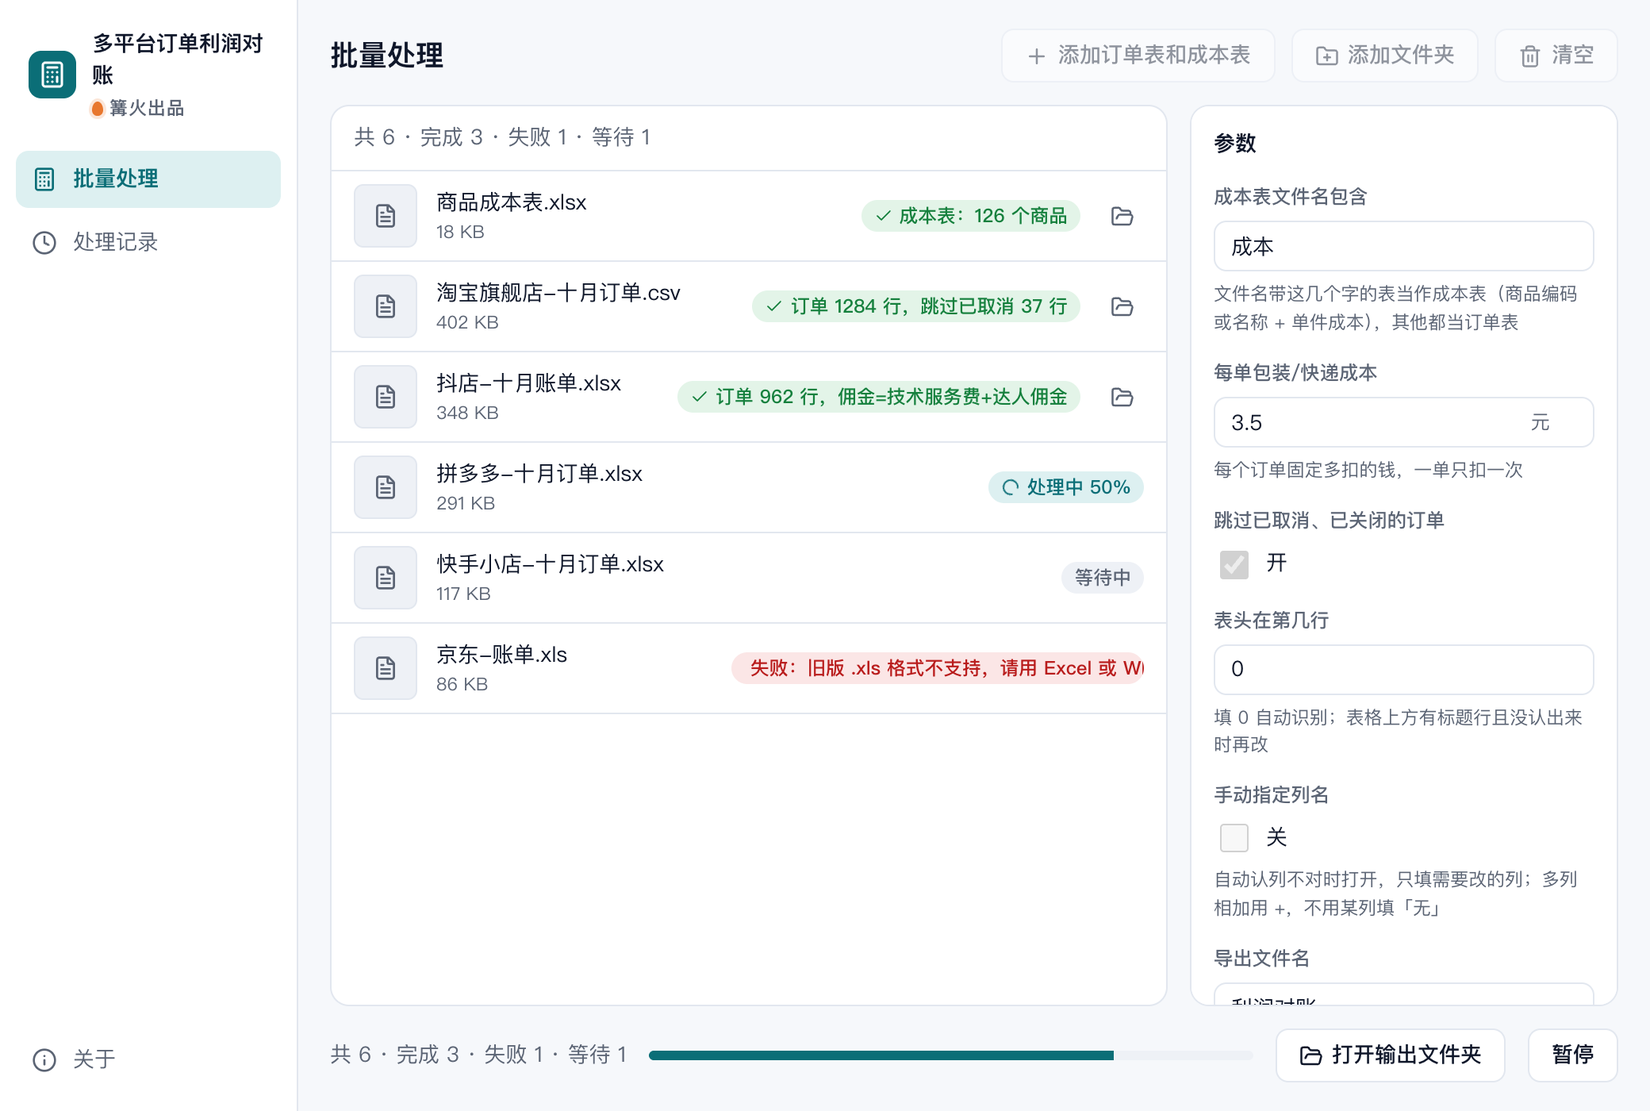
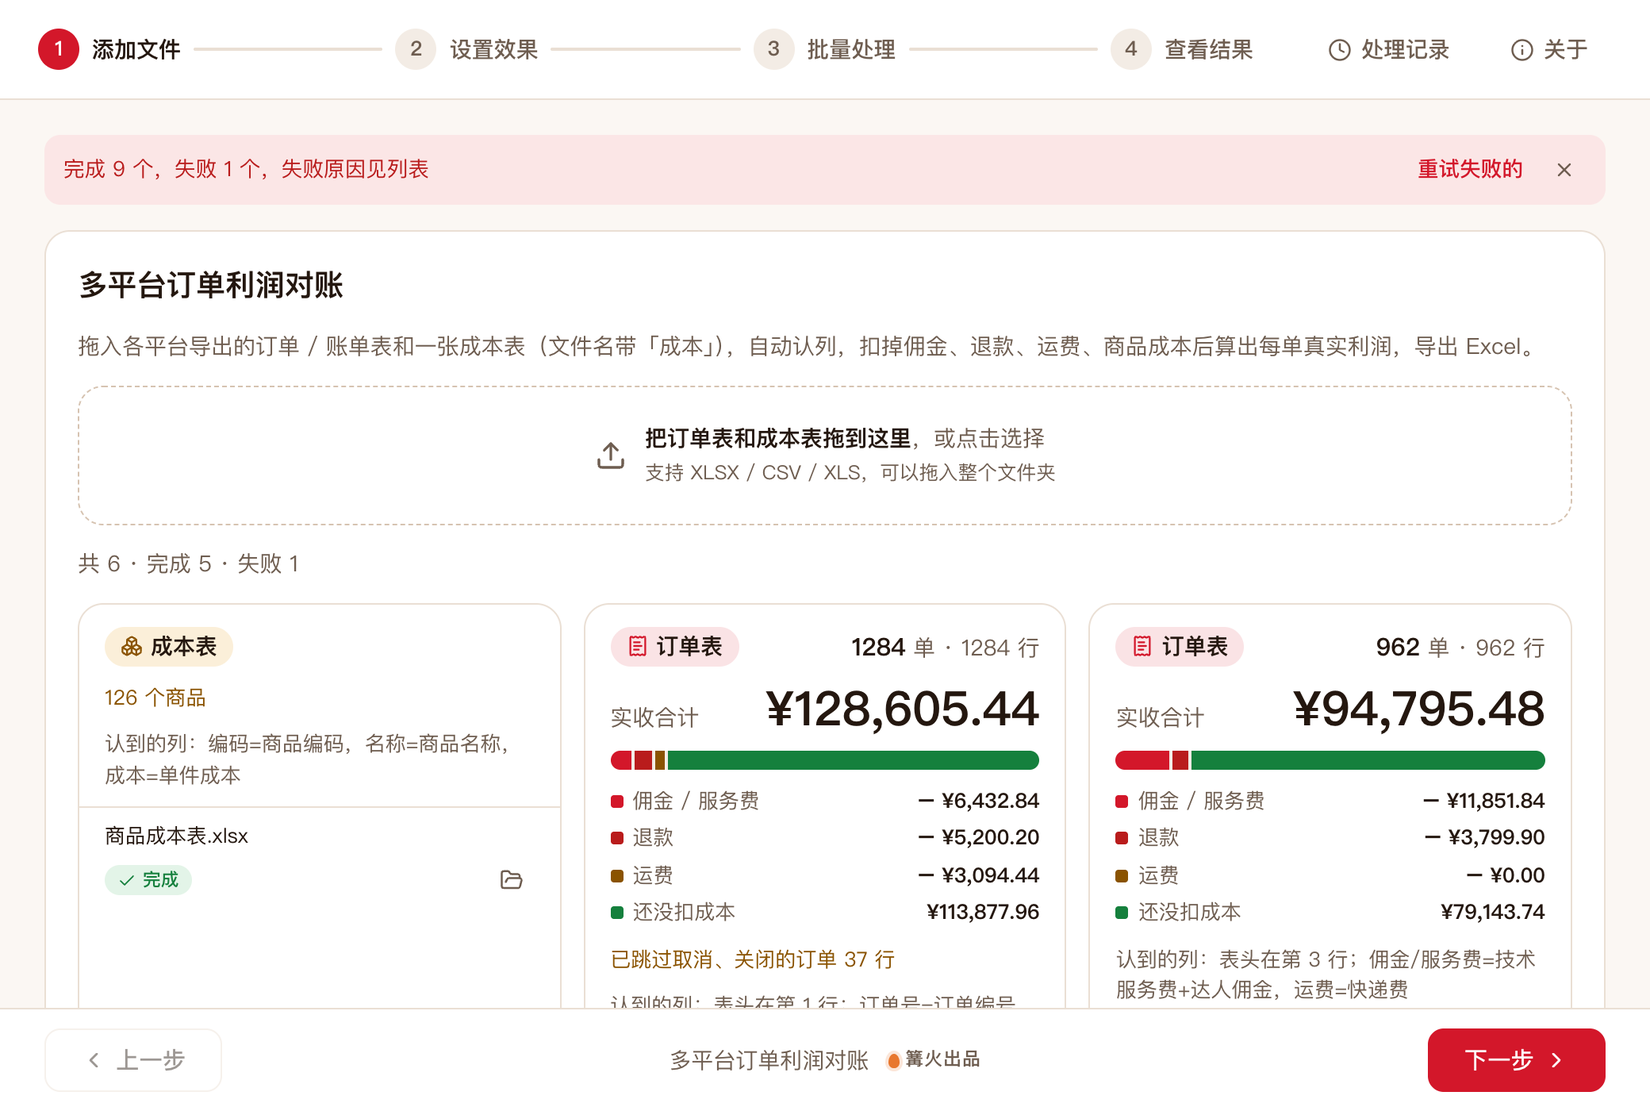
0.2.0 界面改版：实收大字加扣款分段条，中文空状态

diff --git a/src/tool/tool.css b/src/tool/tool.css
@@ -1,0 +1,65 @@
+/* 多平台订单利润对账：布局 c（向导步骤 + 大卡片）。只用 kit.css 的变量，类名以 pr- 开头。
+   焦点：每个订单表的实收大字，加一根「佣金、退款、运费」分段条。 */
+
+/* ---- 空状态 ---- */
+.pr-empty { display: flex; flex-direction: column; align-items: center; gap: 10px; padding: 8px 4px 4px; text-align: center; }
+.pr-empty > svg { width: 100%; max-width: 680px; height: auto; }
+.pr-card { fill: var(--surface); stroke: var(--line-strong); stroke-width: 1.4; }
+.pr-card.hot { stroke: var(--primary); }
+.pr-bar { fill: var(--primary); }
+.pr-top { fill: var(--primary-soft); }
+.pr-tt { font-size: 11.5px; font-weight: 700; fill: var(--ink); font-family: var(--font); }
+.pr-k { font-size: 10px; fill: var(--muted); font-family: var(--font); }
+.pr-arrow { fill: none; stroke: var(--primary); stroke-width: 2.4; stroke-linecap: round; stroke-linejoin: round; }
+.pr-step { fill: var(--primary-soft); stroke: var(--primary); stroke-width: 1.4; stroke-dasharray: 4 3; }
+.pr-fk { font-size: 12px; fill: var(--ink); font-family: var(--font); }
+.pr-fk.strong { font-weight: 700; font-size: 13px; }
+.pr-fv { font-size: 12px; fill: var(--ink); font-family: var(--font); font-variant-numeric: tabular-nums; font-weight: 600; }
+.pr-fv.neg { fill: var(--muted); font-weight: 400; }
+.pr-sum { stroke: var(--ink); stroke-width: 1.2; }
+.pr-big { font-size: 28px; font-weight: 800; fill: var(--ink); font-family: var(--font); font-variant-numeric: tabular-nums; }
+.pr-pct { font-size: 11px; font-weight: 700; fill: var(--ok); font-family: var(--font); }
+.pr-ct { font-size: 10.5px; fill: var(--ink); font-family: var(--font); font-variant-numeric: tabular-nums; }
+.pr-track { fill: var(--chip); }
+.pr-fill { fill: var(--primary); }
+.pr-warn { fill: var(--warn-soft); }
+.pr-wt { font-size: 10px; fill: var(--warn); font-family: var(--font); font-weight: 600; }
+.pr-cap { font-size: 11.5px; fill: var(--muted); font-family: var(--font); }
+.pr-title { font-size: 1.3em; font-weight: 700; color: var(--ink); margin-top: 4px; }
+.pr-act { display: inline-flex; align-items: center; gap: 6px; padding: 6px 14px; border-radius: 999px; background: var(--primary-soft); color: var(--ink); font-weight: 600; text-align: left; line-height: 1.4; }
+.pr-act svg { flex: none; color: var(--primary); }
+
+/* ---- 结果卡片 ---- */
+.c-card .k-cards { grid-template-columns: repeat(auto-fill, minmax(300px, 1fr)); gap: 14px; }
+.c-card .k-card-body { padding: 14px 16px 10px; }
+.c-card .k-card-meta { border-top: 1px solid var(--line); padding: 8px 16px 10px; }
+.pr-sub { color: var(--muted); }
+.pr-body { display: grid; gap: 10px; }
+.pr-head { display: flex; align-items: center; gap: 8px; flex-wrap: wrap; }
+.pr-tag { display: inline-flex; align-items: center; gap: 5px; padding: 2px 10px; border-radius: 999px; font-weight: 700; background: var(--primary-soft); color: var(--ink); }
+.pr-tag svg { color: var(--primary); }
+.pr-tag.cost { background: var(--warn-soft); }
+.pr-tag.cost svg { color: var(--warn); }
+.pr-count { margin-left: auto; color: var(--muted); white-space: nowrap; }
+.pr-count b { color: var(--ink); font-size: 1.1em; }
+.pr-income { display: flex; align-items: baseline; justify-content: space-between; gap: 10px; }
+.pr-income span { color: var(--muted); white-space: nowrap; }
+.pr-income b { font-size: 30px; line-height: 1.1; color: var(--ink); font-weight: 800; }
+.pr-split { display: flex; height: 12px; border-radius: 6px; overflow: hidden; gap: 2px; background: var(--chip); }
+.pr-split i { display: block; min-width: 4px; transition: flex 200ms var(--ease); }
+.pr-split .c1 { background: var(--primary); }
+.pr-split .c2 { background: var(--err); }
+.pr-split .c3 { background: var(--warn); }
+.pr-split .rest { background: var(--ok); }
+.pr-legend { list-style: none; margin: 0; padding: 0; display: grid; gap: 4px; }
+.pr-legend li { display: flex; justify-content: space-between; gap: 10px; padding-left: 14px; position: relative; font-size: 13px; }
+.pr-legend li::before { content: ''; position: absolute; left: 0; top: 50%; width: 8px; height: 8px; margin-top: -4px; border-radius: 2px; background: var(--line-strong); }
+.pr-legend .c1::before { background: var(--primary); }
+.pr-legend .c2::before { background: var(--err); }
+.pr-legend .c3::before { background: var(--warn); }
+.pr-legend .rest::before { background: var(--ok); }
+.pr-legend span { color: var(--muted); }
+.pr-legend b { color: var(--ink); font-weight: 600; }
+.pr-legend .rest b { font-weight: 800; }
+.pr-note { color: var(--warn); font-size: 13px; }
+.pr-how { color: var(--muted); font-size: 13px; overflow: hidden; display: -webkit-box; -webkit-line-clamp: 2; -webkit-box-orient: vertical; }

diff --git a/src/tool/Empty.tsx b/src/tool/Empty.tsx
@@ -1,0 +1,64 @@
+// 空状态：画出「多个平台的订单表 + 一张成本表 → 扣佣金、退款、运费、成本 → 利润对账表」，数字是真实感的示例
+import { Upload } from 'lucide-react';
+import './tool.css';
+
+const ORDERS = ['淘宝旗舰店订单', '抖店十月账单', '拼多多十月订单'];
+const LINES: [string, string, boolean][] = [['实收', '+ ¥12,860', false], ['佣金', '− ¥643', true], ['退款', '− ¥520', true], ['运费', '− ¥310', true], ['商品成本', '− ¥6,240', true]];
+
+export function Empty({ hover }: { hover: boolean }) {
+  return (
+    <div className="pr-empty">
+      <svg viewBox="0 0 580 240" role="img" aria-label="各平台订单表和成本表一起导入，每单扣掉佣金、退款、运费和商品成本，得到一张利润对账表">
+        <g>
+          {ORDERS.map((t, i) => (
+            <g key={t}>
+              <rect x="6" y={8 + i * 46} width="132" height="38" rx="6" className="pr-card" />
+              <rect x="6" y={8 + i * 46} width="6" height="38" rx="3" className="pr-bar" />
+              <text x="22" y={25 + i * 46} className="pr-tt">{t}</text>
+              <text x="22" y={39 + i * 46} className="pr-k">订单 / 账单表</text>
+            </g>
+          ))}
+          <rect x="6" y="150" width="132" height="42" rx="6" className="pr-card hot" />
+          <text x="22" y="168" className="pr-tt">商品成本表</text>
+          <text x="22" y="183" className="pr-k">商品编码 + 单件成本</text>
+        </g>
+        <path d="M144 100 H166 M144 171 H156 V130 H166 M160 122 L170 130 L160 138" className="pr-arrow" />
+        <g>
+          <rect x="172" y="30" width="140" height="150" rx="8" className="pr-step" />
+          {LINES.map(([k, v, neg], i) => (
+            <g key={k}>
+              <text x="184" y={56 + i * 21} className="pr-fk">{k}</text>
+              <text x="300" y={56 + i * 21} textAnchor="end" className={neg ? 'pr-fv neg' : 'pr-fv'}>{v}</text>
+            </g>
+          ))}
+          <line x1="184" x2="300" y1="158" y2="158" className="pr-sum" />
+          <text x="184" y="173" className="pr-fk strong">每单利润</text>
+        </g>
+        <path d="M318 105 H346 M338 97 L348 105 L338 113" className="pr-arrow" />
+        <g>
+          <rect x="354" y="8" width="220" height="184" rx="6" className="pr-card hot" />
+          <rect x="354" y="8" width="220" height="24" rx="6" className="pr-top" />
+          <text x="366" y="24" className="pr-tt">利润对账.xlsx</text>
+          <text x="366" y="50" className="pr-k">利润合计</text>
+          <text x="366" y="82" className="pr-big">¥4,147</text>
+          <text x="566" y="82" textAnchor="end" className="pr-pct">利润率 32.3%</text>
+          {[['淘宝旗舰店', 1860, 100], ['抖店', 1412, 76], ['拼多多', 875, 47]].map(([k, v, w], i) => (
+            <g key={k as string}>
+              <text x="366" y={112 + i * 22} className="pr-ct">{k}</text>
+              <rect x="428" y={104 + i * 22} width="96" height="8" rx="4" className="pr-track" />
+              <rect x="428" y={104 + i * 22} width={(Number(w) / 100) * 96} height="8" rx="4" className="pr-fill" />
+              <text x="566" y={112 + i * 22} textAnchor="end" className="pr-ct">¥{Number(v).toLocaleString()}</text>
+            </g>
+          ))}
+          <rect x="366" y="170" width="196" height="16" rx="8" className="pr-warn" />
+          <text x="464" y="182" textAnchor="middle" className="pr-wt">3 单缺成本，已在明细里标出</text>
+        </g>
+        <text x="72" y="218" textAnchor="middle" className="pr-cap">一起拖进来</text>
+        <text x="242" y="218" textAnchor="middle" className="pr-cap">按公式逐单算</text>
+        <text x="464" y="218" textAnchor="middle" className="pr-cap">总计、明细、按商品、按来源</text>
+      </svg>
+      <h2 className="pr-title">{hover ? '松开鼠标，开始添加' : '把订单表和成本表一起拖进来'}</h2>
+      <p className="pr-act"><Upload size={15} />成本表的文件名里要带「成本」两个字，其余文件都当订单表</p>
+    </div>
+  );
+}

diff --git a/src/tool/preview.ts b/src/tool/preview.ts
@@ -1,24 +1,33 @@
 // 截图与预览用的示例数据（不会进入正式运行）
 import type { Row } from '../kit/runner';
+import type { OrderLine } from './core';
 
-const files: [string, number, Row['status'], string?][] = [
-  ['商品成本表.xlsx', 18_000, 'ok', '成本表：126 个商品'],
-  ['淘宝旗舰店-十月订单.csv', 412_000, 'ok', '订单 1284 行，跳过已取消 37 行'],
-  ['抖店-十月账单.xlsx', 356_000, 'ok', '订单 962 行，佣金=技术服务费+达人佣金'],
-  ['拼多多-十月订单.xlsx', 298_000, 'run'],
-  ['快手小店-十月订单.xlsx', 120_000, 'wait'],
+/** 按行数和合计金额（分）拼出示例订单行，金额均分 */
+function fake(source: string, n: number, income: number, commission: number, refund: number, shipping: number): OrderLine[] {
+  return Array.from({ length: n }, (_, i) => ({
+    source, rowNo: i + 2, orderId: `${source}-${10000 + i}`, product: '保温杯 500毫升', sku: '1001', qty: 1, status: '交易成功',
+    income: Math.round(income / n), commission: Math.round(commission / n), refund: Math.round(refund / n), shipping: Math.round(shipping / n),
+  }));
+}
+
+const files: [string, number, Row['status'], string?, unknown?][] = [
+  ['商品成本表.xlsx', 18_000, 'ok', '成本表：126 个商品', { kind: 'cost', file: '商品成本表.xlsx', how: '编码=商品编码，名称=商品名称，成本=单件成本' }],
+  ['淘宝旗舰店-十月订单.csv', 412_000, 'ok', '订单 1284 行，跳过已取消 37 行', { kind: 'orders', file: '淘宝旗舰店-十月订单.csv', how: '表头在第 1 行；订单号=订单编号，实收=买家实付金额(元)，退款=退款金额', lines: fake('淘宝', 1284, 12_860_000, 643_000, 520_000, 310_000) }],
+  ['抖店-十月账单.xlsx', 356_000, 'ok', '订单 962 行，佣金=技术服务费+达人佣金', { kind: 'orders', file: '抖店-十月账单.xlsx', how: '表头在第 3 行；佣金/服务费=技术服务费+达人佣金，运费=快递费', lines: fake('抖店', 962, 9_480_000, 1_185_000, 380_000, 0) }],
+  ['拼多多-十月订单.xlsx', 298_000, 'run', '订单 640 行', { kind: 'orders', file: '拼多多-十月订单.xlsx', how: '表头在第 1 行；订单号=订单编号，实收=买家实付', lines: fake('拼多多', 640, 6_050_000, 242_000, 150_000, 0) }],
+  ['快手小店-十月订单.xlsx', 120_000, 'wait', '订单 210 行', { kind: 'orders', file: '快手小店-十月订单.xlsx', how: '表头在第 1 行；订单号=订单编号，实收=订单实付', lines: fake('快手', 210, 2_100_000, 126_000, 60_000, 42_000) }],
   ['京东-账单.xls', 88_000, 'err', '旧版 .xls 格式不支持，请用 Excel 或 WPS 另存为 .xlsx 后再拖进来'],
 ];
 
 export const rows = (state: string): Row[] =>
-  state === 'empty' ? [] : files.map(([name, size, status, text], i) => {
+  state === 'empty' ? [] : files.map(([name, size, status, text, data], i) => {
     const st = state === 'done' && status !== 'err' ? 'ok' : status;
     return {
       item: { id: `p${i}`, name, path: `/示例/${name}`, size },
       status: st,
       progress: st === 'run' ? 0.5 : st === 'ok' ? 1 : 0,
       error: st === 'err' ? text : undefined,
-      result: st === 'ok' ? { summary: text ?? '订单 640 行', outputPath: '/示例/输出' } : undefined,
+      result: st === 'ok' ? { summary: text ?? '订单 640 行', outputPath: '/示例/输出', data } : undefined,
     };
   });
 

diff --git a/src/tool/Result.tsx b/src/tool/Result.tsx
@@ -1,0 +1,53 @@
+// 单个文件的读取结果：订单表用大字显示实收，下面一根分段条显示佣金、退款、运费各占多少；成本表显示商品数和认到的列
+import { Boxes, ReceiptText } from 'lucide-react';
+import type { InputItem, ItemResult } from '../kit/types';
+import { yuan, type OrderLine } from './core';
+import './tool.css';
+
+type Shown = { kind: 'cost'; file: string; how: string } | { kind: 'orders'; lines: OrderLine[]; file: string; how: string };
+
+const fmt = (cents: number) => `¥${yuan(cents).toLocaleString('zh-CN', { minimumFractionDigits: 2, maximumFractionDigits: 2 })}`;
+
+export function ResultBody({ result }: { item: InputItem; result: ItemResult }) {
+  const d = result.data as Shown | undefined;
+  if (!d) return <p className="pr-sub">{result.summary}</p>;
+  if (d.kind === 'cost') {
+    return (
+      <div className="pr-body">
+        <div className="pr-head"><span className="pr-tag cost"><Boxes size={14} />成本表</span></div>
+        <p className="pr-note">{result.summary?.replace(/^成本表：/, '')}</p>
+        <p className="pr-how" title={d.how}>认到的列：{d.how}</p>
+      </div>
+    );
+  }
+  const sum = (k: 'income' | 'commission' | 'shipping' | 'refund') => d.lines.reduce((a, l) => a + l[k], 0);
+  const income = sum('income');
+  const parts = [
+    { k: '佣金 / 服务费', v: sum('commission'), c: 'c1' },
+    { k: '退款', v: sum('refund'), c: 'c2' },
+    { k: '运费', v: sum('shipping'), c: 'c3' },
+  ];
+  const left = Math.max(0, income - parts.reduce((a, p) => a + p.v, 0));
+  const total = Math.max(1, income, parts.reduce((a, p) => a + p.v, 0));
+  const orders = new Set(d.lines.map((l) => l.orderId || `${l.rowNo}`)).size;
+  const skipped = /跳过已取消 (\d+) 行/.exec(result.summary ?? '')?.[1];
+  return (
+    <div className="pr-body">
+      <div className="pr-head">
+        <span className="pr-tag"><ReceiptText size={14} />订单表</span>
+        <span className="pr-count"><b className="k-num">{orders}</b> 单 · {d.lines.length} 行</span>
+      </div>
+      <div className="pr-income"><span>实收合计</span><b className="k-num">{fmt(income)}</b></div>
+      <div className="pr-split" role="img" aria-label={`实收 ${fmt(income)}，其中佣金 ${fmt(parts[0].v)}，退款 ${fmt(parts[1].v)}，运费 ${fmt(parts[2].v)}`}>
+        {parts.map((p) => p.v > 0 && <i key={p.k} className={p.c} style={{ flex: p.v / total }} />)}
+        <i className="rest" style={{ flex: left / total }} />
+      </div>
+      <ul className="pr-legend">
+        {parts.map((p) => <li key={p.k} className={p.c}><span>{p.k}</span><b className="k-num">− {fmt(p.v)}</b></li>)}
+        <li className="rest"><span>还没扣成本</span><b className="k-num">{fmt(left)}</b></li>
+      </ul>
+      {skipped && <p className="pr-note">已跳过取消、关闭的订单 {skipped} 行</p>}
+      <p className="pr-how" title={d.how}>认到的列：{d.how}</p>
+    </div>
+  );
+}

diff --git a/src/tool/samples.ts b/src/tool/samples.ts
@@ -3,11 +3,11 @@ import ExcelJS from 'exceljs';
 import { writeXlsx } from './xlsx';
 
 const TAOBAO = `订单编号,商品标题,商家编码,购买数量,买家实付金额(元),订单状态,退款金额
-3712024102300010001,保温杯 500ml,BW-500,2,119.80,交易成功,0
-3712024102300010002,帆布托特包,FB-01,1,49.90,交易成功,49.90
-3712024102300010003,护眼台灯,TD-09,1,129.00,交易关闭,0
-3712024102300010004,保温杯 500ml,BW-500,1,59.90,交易成功,0
-3712024102300010005,陶瓷马克杯,MK-02,3,77.70,交易成功,0
+3712024102300010001,保温杯 500毫升,1001,2,119.80,交易成功,0
+3712024102300010002,帆布托特包,1002,1,49.90,交易成功,49.90
+3712024102300010003,护眼台灯,1003,1,129.00,交易关闭,0
+3712024102300010004,保温杯 500毫升,1001,1,59.90,交易成功,0
+3712024102300010005,陶瓷马克杯,1004,3,77.70,交易成功,0
 `;
 
 async function douyin(): Promise<Uint8Array> {
@@ -18,10 +18,10 @@ async function douyin(): Promise<Uint8Array> {
   ws.addRow([]);
   ws.addRow(['子订单号', '商品名称', '商品编码', '数量', '订单实付', '技术服务费', '达人佣金', '快递费', '售后退款金额', '订单状态']);
   const rows: (string | number)[][] = [
-    ['6930001', '保温杯 500ml', 'BW-500', 1, 62, 3.1, 6.2, 0, 0, '已完成'],
-    ['6930002', '护眼台灯', 'TD-09', 1, 135, 6.75, 13.5, 0, 0, '已完成'],
-    ['6930003', '帆布托特包', 'FB-01', 2, 96, 4.8, 0, 0, 0, '已完成'],
-    ['6930004', '保温杯 500ml', 'BW-500', 1, 62, 3.1, 6.2, 0, 62, '售后完成'],
+    ['6930001', '保温杯 500毫升', '1001', 1, 62, 3.1, 6.2, 0, 0, '已完成'],
+    ['6930002', '护眼台灯', '1003', 1, 135, 6.75, 13.5, 0, 0, '已完成'],
+    ['6930003', '帆布托特包', '1002', 2, 96, 4.8, 0, 0, 0, '已完成'],
+    ['6930004', '保温杯 500毫升', '1001', 1, 62, 3.1, 6.2, 0, 62, '售后完成'],
   ];
   rows.forEach((r) => ws.addRow(r));
   return new Uint8Array(await wb.xlsx.writeBuffer());
@@ -31,6 +31,6 @@ export async function sampleFiles(): Promise<[string, Uint8Array][]> {
   return [
     ['淘宝旗舰店-订单.csv', new TextEncoder().encode(TAOBAO)],
     ['抖店-十月账单.xlsx', await douyin()],
-    ['商品成本表.xlsx', await writeXlsx([{ name: '成本', header: ['商品编码', '商品名称', '单件成本'], rows: [['BW-500', '保温杯 500ml', 22.5], ['FB-01', '帆布托特包', 11.8], ['TD-09', '护眼台灯', 48]] }])],
+    ['商品成本表.xlsx', await writeXlsx([{ name: '成本', header: ['商品编码', '商品名称', '单件成本'], rows: [['1001', '保温杯 500毫升', 22.5], ['1002', '帆布托特包', 11.8], ['1003', '护眼台灯', 48]] }])],
   ];
 }

diff --git a/src/tool/index.ts b/src/tool/index.ts
@@ -6,6 +6,8 @@ import {
   safeName, summarize, total, yuan, type Cell, type CostTable, type FieldKey, type OrderLine, type ProfitLine, type Summary,
 } from './core';
 import { readSheets, writeXlsx, type ColFmt, type OutSheet } from './xlsx';
+import { Empty } from './Empty';
+import { ResultBody } from './Result';
 
 type Data = { kind: 'cost'; table: CostTable; file: string; how: string } | { kind: 'orders'; lines: OrderLine[]; file: string; how: string };
 
@@ -98,6 +100,8 @@ const tool: BatchTool = {
   type: 'data',
   mode: 'batch',
   resultView: 'list',
+  Empty,
+  ResultBody,
   concurrency: 1,
   accept: { label: '订单表和成本表', extensions: ['xlsx', 'csv', 'xls'] },
   params: [

diff --git a/src/tool/index.test.ts b/src/tool/index.test.ts
@@ -58,7 +58,7 @@ describe('示例文件完整流程', () => {
     expect(src[2][9]).toBe(118.75);
     expect(src[3].slice(0, 2)).toEqual(['合计', 8]);
     const prod = sheets[2].grid;
-    expect(prod[1].slice(0, 2)).toEqual(['BW-500', '保温杯 500ml']); // 按利润从高到低
+    expect(prod[1].slice(0, 2)).toEqual(['1001', '保温杯 500毫升']); // 按利润从高到低
     expect(prod[1][10]).toBe(96.6);
   });
 

diff --git a/README.md b/README.md
@@ -56,7 +56,7 @@
 | 操作 | 应得到 |
 |---|---|
 | 把 `samples/` 里 3 个文件一起拖进窗口，「每单包装/快递成本」填 `3.5`，其他保持默认，点「开始处理」 | 列表里：成本表显示「成本表：3 个商品」；淘宝显示「订单 4 行，跳过已取消 1 行，没认出：佣金/服务费、运费（按 0 计）」；抖店显示「订单 4 行」。提示条显示「已导出 …/利润对账.xlsx：8 单，利润 282.85 元（利润率 42.7%），1 行缺成本，已在明细里标出」 |
-| 打开生成的 `利润对账.xlsx` | 「订单明细」8 行，淘宝订单号 `3712024102300010001` 完整保留，利润 71.30、利润率 59.5%；`3712024102300010005`（陶瓷马克杯）备注「缺成本」；抖店 `6930004` 利润 −35.30。「按来源文件汇总」：淘宝旗舰店-订单 164.10，抖店-十月账单 118.75，合计 8 单。「按商品汇总」第一行是 BW-500 保温杯 500ml，利润 96.60。「列识别」里抖店一行写着「表头在第 3 行」「佣金/服务费=技术服务费+达人佣金，运费=快递费」 |
+| 打开生成的 `利润对账.xlsx` | 「订单明细」8 行，淘宝订单号 `3712024102300010001` 完整保留，利润 71.30、利润率 59.5%；`3712024102300010005`（陶瓷马克杯）备注「缺成本」；抖店 `6930004` 利润 −35.30。「按来源文件汇总」：淘宝旗舰店-订单 164.10，抖店-十月账单 118.75，合计 8 单。「按商品汇总」第一行是 1001 保温杯 500毫升，利润 96.60。「列识别」里抖店一行写着「表头在第 3 行」「佣金/服务费=技术服务费+达人佣金，运费=快递费」 |
 | 只拖 `商品成本表.xlsx`，开始处理 | 提示条显示「完成 1 个，失败 1 个，失败原因见列表。收尾失败：没有订单表：除了成本表，还要拖入至少一张平台导出的订单 / 账单表」 |
 | 打开「手动指定列名」，「实收金额列」填 `结算金额`，只拖淘宝 CSV 处理 | 该文件失败，原因「找不到列「结算金额」，表头是：订单编号、商品标题、商家编码、购买数量、买家实付金额(元)、订单状态、退款金额」 |
 

diff --git a/CHANGELOG.md b/CHANGELOG.md
@@ -1,5 +1,13 @@
 # 更新记录
 
+## 0.2.0
+
+- 界面改版：改为向导步骤加大卡片布局，主色改为红色。
+- 新的空状态：画出「多个平台订单表加成本表，按公式扣佣金、退款、运费、成本，得到利润对账表」的示意。
+- 新的结果卡片：订单表用大字显示实收合计，下面一根分段条显示佣金、退款、运费各占多少，列出还没扣成本的金额；成本表显示商品数和认到的列。
+- 示例数据去掉英文商品编码和单位，改为中文和数字编码（测试里的期望值同步改了）。
+- 功能和数据处理不变。
+
 ## 0.1.0
 
 - 首个版本。
